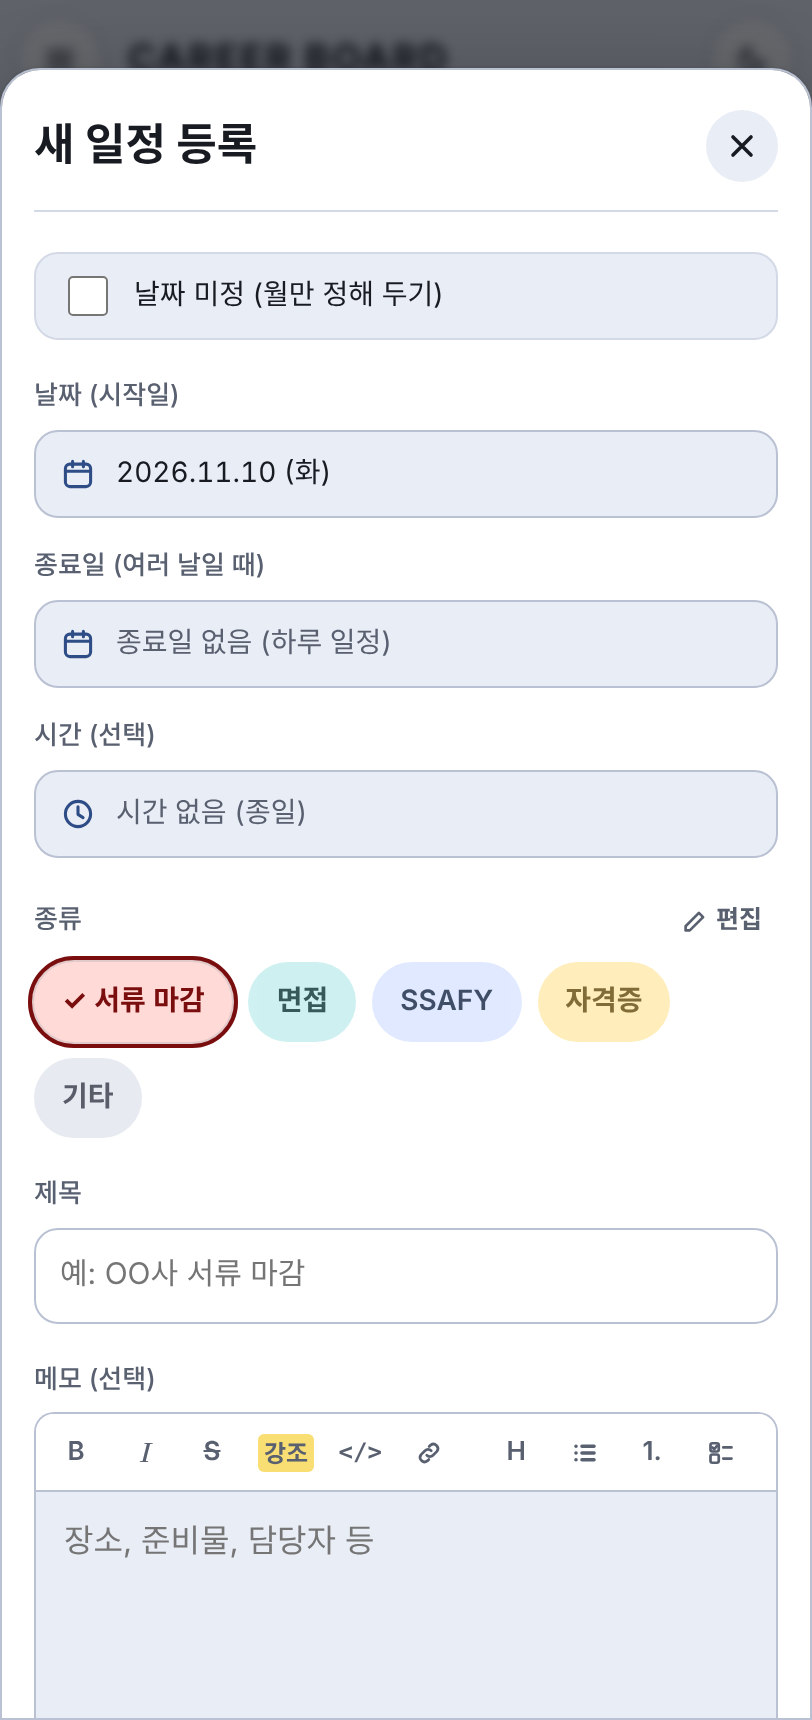
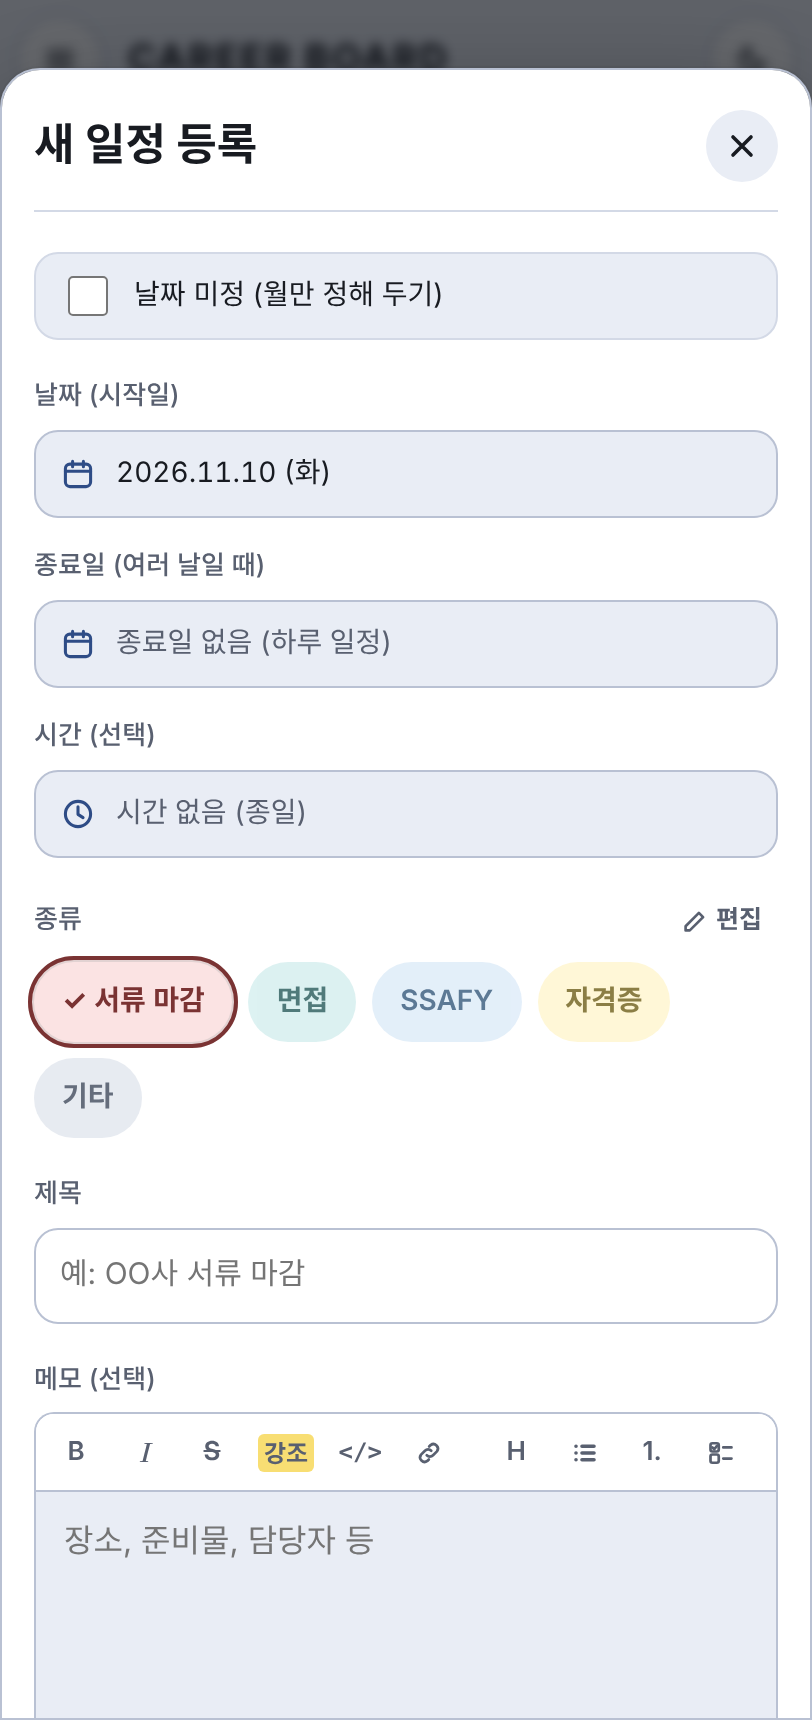
docs: 파스텔 색상 반영해 스크린샷 교체, README 종류 색상 설명 갱신

diff --git a/README.md b/README.md
@@ -209,7 +209,7 @@
 
 **캘린더 보는 법**
 - 위쪽 `‹` `›` 로 달을 넘기고, **오늘** 버튼으로 오늘이 있는 달로 돌아옵니다. 달 이름을 누르면 다른 달로 바로 이동할 수 있습니다.
-- 일정 종류마다 색이 다릅니다(서류 마감 · 면접 · SSAFY · 자격증 · 기타). 여러 날 일정은 막대로 이어 보이고, 빨간 날짜는 공휴일입니다.
+- 일정 종류마다 부드러운 파스텔 톤의 색이 다릅니다(서류 마감 · 면접 · SSAFY · 자격증 · 기타). 여러 날 일정은 막대로 이어 보이고, 빨간 날짜는 공휴일입니다.
 - 날짜를 누르면 오른쪽(모바일은 아래) 패널에 그날 일정이 나옵니다. 일정을 누르면 내용을 보고 고칠 수 있습니다.
 
 **일정 등록하기**
